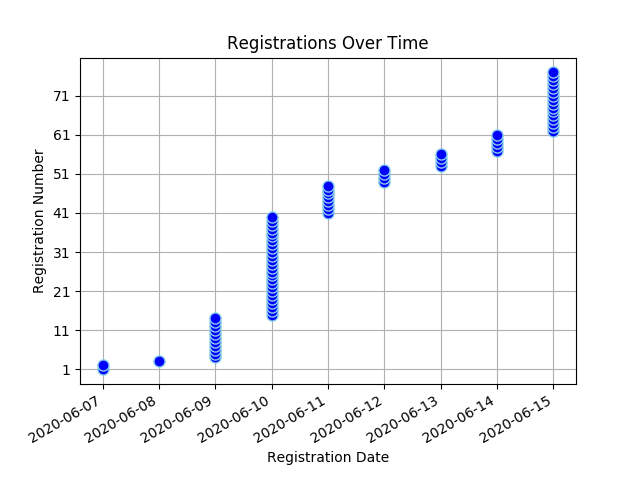
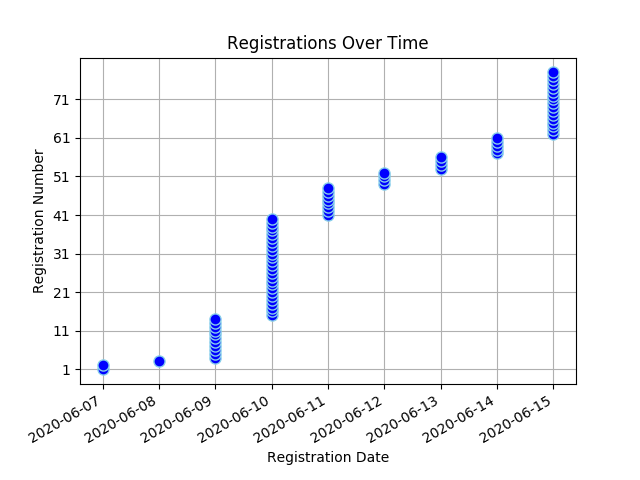
Registree stats backup on Mon Jun 15 15:04:53 SAST 2020

diff --git a/content/virtual_conf_stats/_index.md b/content/virtual_conf_stats/_index.md
@@ -16,7 +16,7 @@ draft: false
 </head>
 <body>
 <h1 style="color: #000000;">Virtual Convention Registration Stats</h1>
-<ul><li><strong>Number of Registrees</strong>: 77</li>
+<ul><li><strong>Number of Registrees</strong>: 78</li>
 </ul><a href="/docs/virtual_convention_stats.csv">Download registration details here</a>
 <h2>Registrees</h2>
 <table id="registreeTable" class="tablesorter" border="1" padding=1>
@@ -87,6 +87,7 @@ Club
 <tr><td>Shone, David</td><td>Cowies HIll</td></tr>
 <tr><td>Smit, Herman</td><td>Swellendam Lions Club</td></tr>
 <tr><td>Smit, Sue</td><td>Centurion</td></tr>
+<tr><td>SMYTH, JANINE</td><td>VEREENIGING</td></tr>
 <tr><td>Sochen, Diana</td><td>Sea Point</td></tr>
 <tr><td>stuppel, malcolm</td><td>de grendel</td></tr>
 <tr><td>Sturges, Trevor</td><td>Lions Club of Midrand</td></tr>
